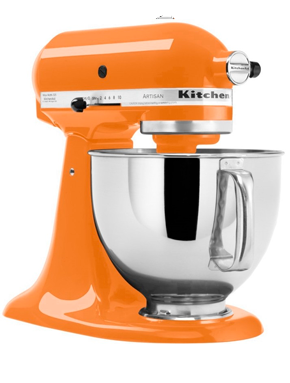
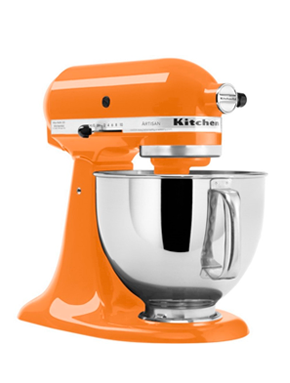
Estilizar carrossel pagina de produtos

diff --git a/website/static/js/produtos.js b/website/static/js/produtos.js
@@ -7,8 +7,8 @@ let time = 3000;
 // let voltar = document.querySelector('.esquerda')
 
 
-images[0] = document.src= '../static/img/piscina.png';
-images[1] = document.src = '../static/img/batedeira-vermelha.png';
+images[0] = document.src= '../static/img/batedeira-laranja-lado.png';
+images[1] = document.src = '../static/img/batedeira-laranja-equipamentos.png';
 images[2] = document.src ='../static/img/batedeira-laranja.png';
 
 
